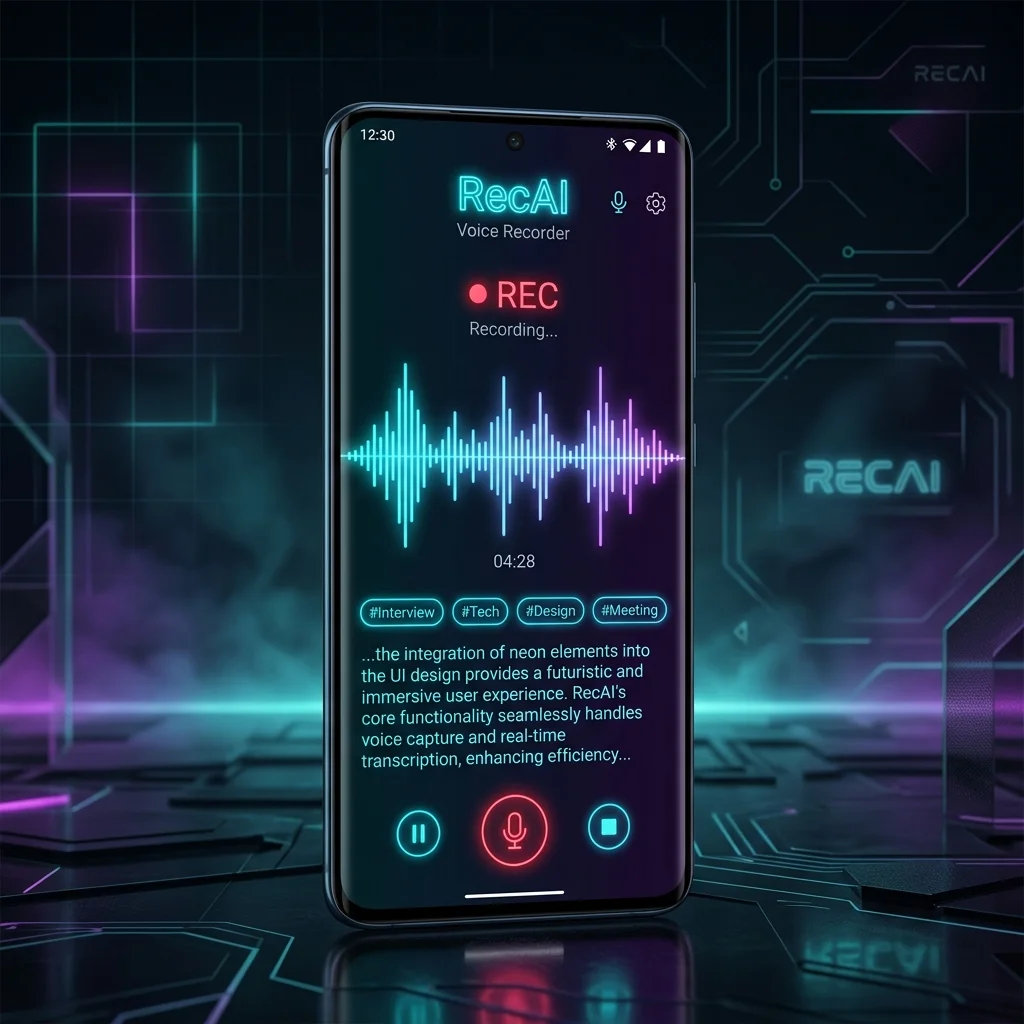
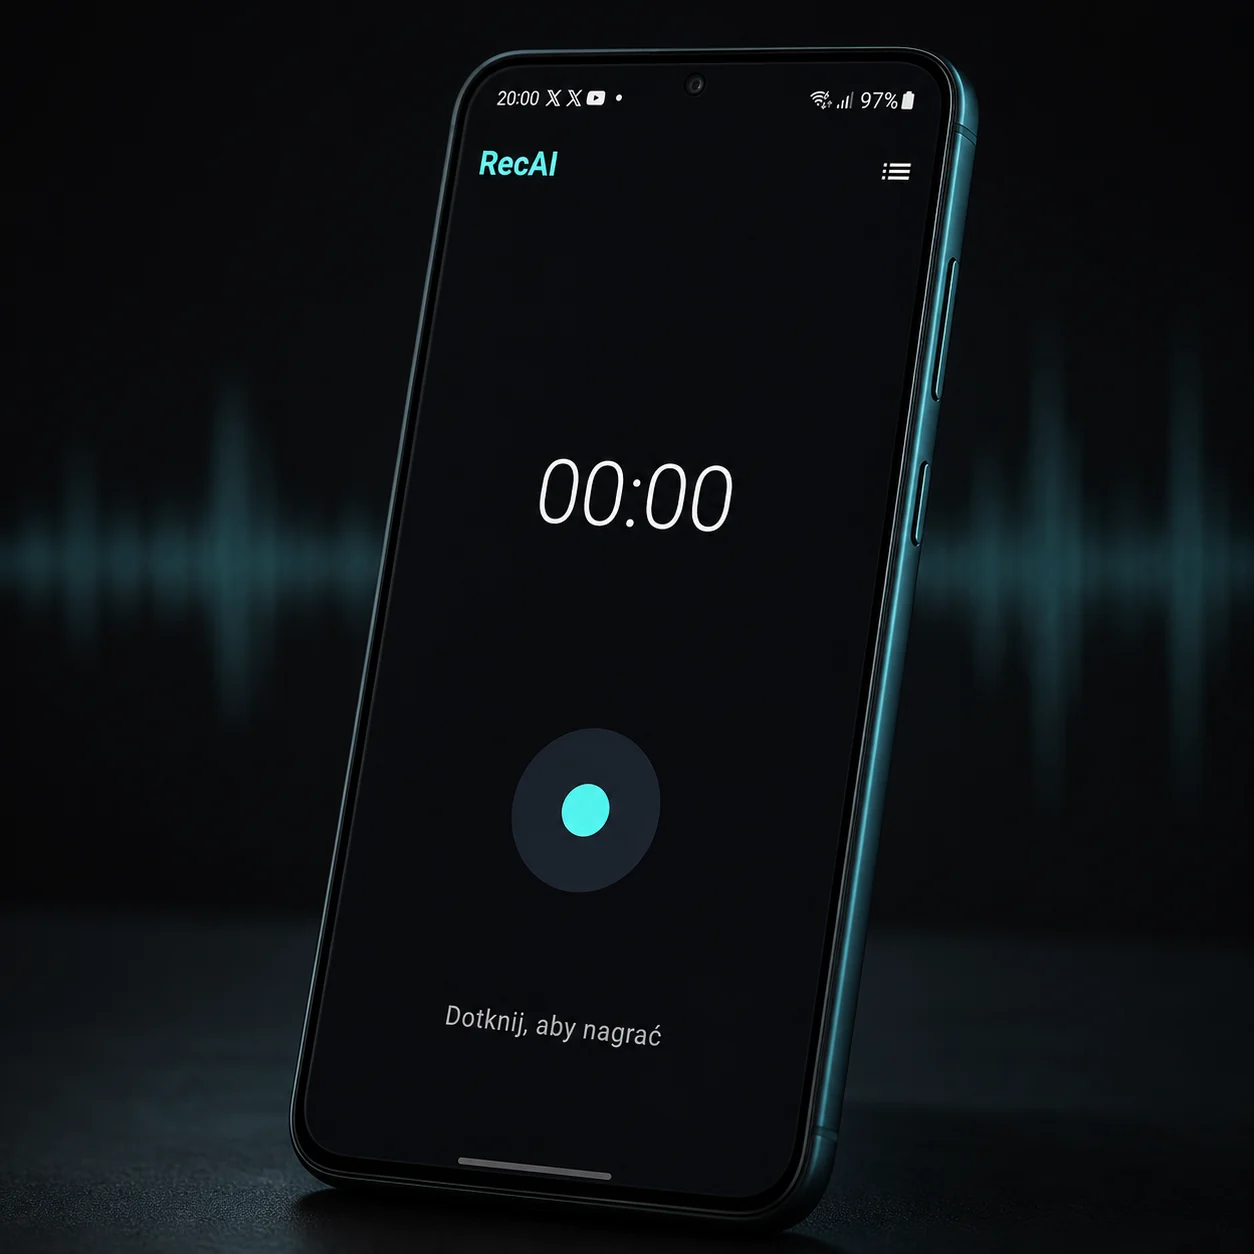
feat(projects): complete portfolio mockup refresh

diff --git a/CHANGELOG.md b/CHANGELOG.md
@@ -8,12 +8,12 @@ stosują [Semantic Versioning](https://semver.org/).
 
 ### Changed
 
-- Dwadzieścia sześć mockupów projektów — APK://GENESIS, BRIXCORE, Beyond the Door,
+- Dwadzieścia osiem mockupów projektów — APK://GENESIS, BRIXCORE, Beyond the Door,
   CAN//FORM, EDM Music Festival, THE VAULT, Skin Elixir, APKMASON ARC,
   FRUIT ENERGY, Sfera, Evolution of the Phone, THE IRIS, Pure Form, From
   Sand to Silicon, Inside the Internet, SPARK, ASCENT, ORIGIN, Poznaj AI,
   VIBE//SHIFT, PCVerse, Budżet Domowy, Mechanika Czasu, Piątunio w Korpo,
-  ScrollDebt i Allergen Guard — zastąpiono kadrami
+  ScrollDebt, Allergen Guard, RecAI i Top Seven — zastąpiono kadrami
   przygotowanymi na podstawie aktualnych assetów źródłowych i zapisanymi jako
   zoptymalizowane WebP; THE VAULT
   pokazuje bieżącą, jednoczęściową płytę drzwi otwieraną w prawo, a EDM
